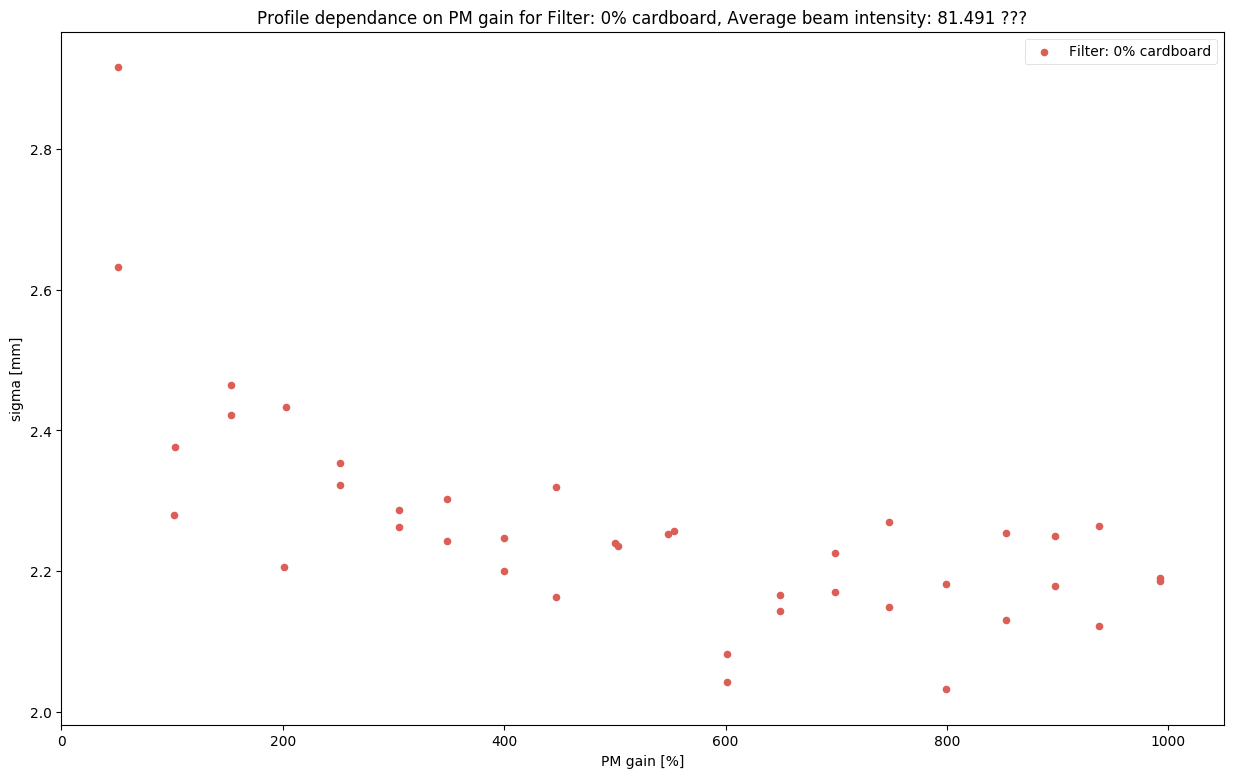
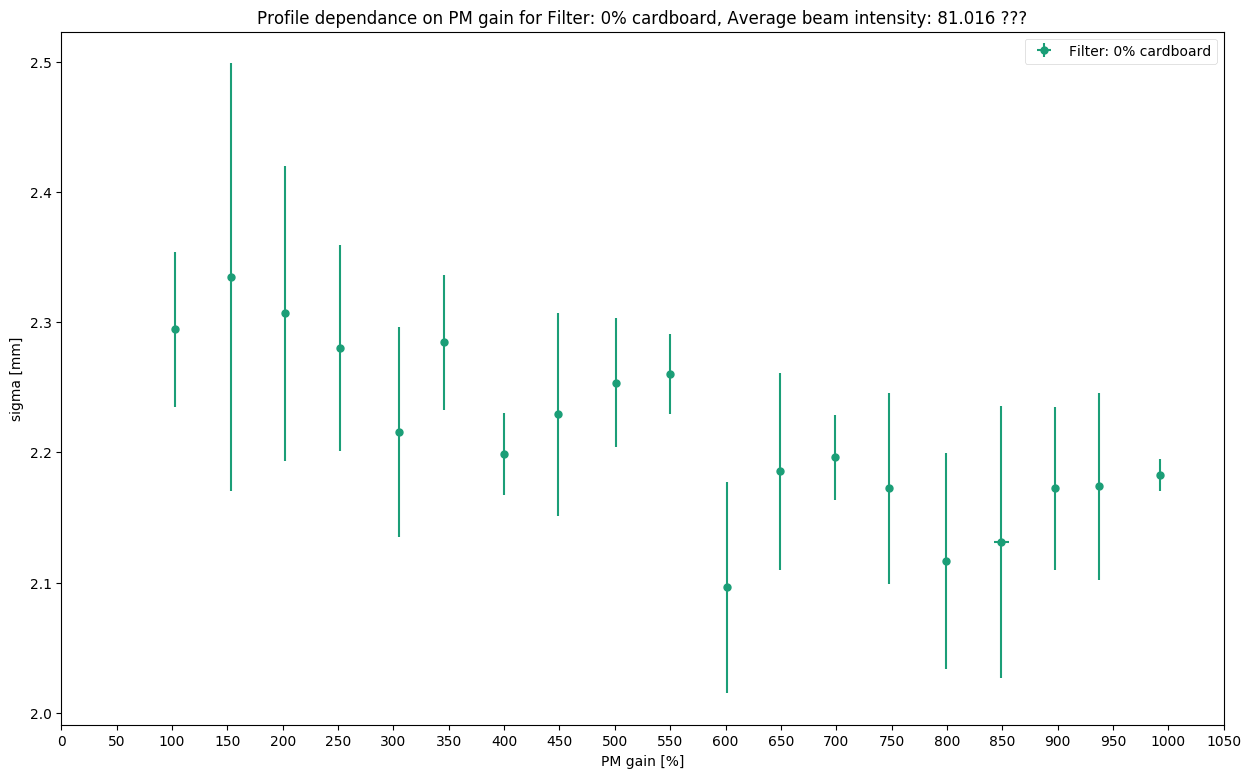
New plots: sigma * amplitude on pm and sigma * amplitude on intensity.

diff --git a/analyse_wirescanner.py b/analyse_wirescanner.py
@@ -85,12 +85,15 @@ def plot_profile(infile):
 
 
 # color_list = ["black", "blue", "orange", "green", "yellow", "magenta", "purple", "red", "maroon"]
-color_list = sns.color_palette("hls", 9)
+# color_list = sns.color_palette("hls", 8)
+color_list = plt.get_cmap('Dark2')
 filter_list = ["0% cardboard", "20%", "5%", "2%", "0.5%", "0.2%", "100% no filter", "0% metal" ]
 
 run = [1,2,3]
 filter = [0,1,2,3,4,5,6,7]
 # filter = [0,2,3,4,5,7]
+# filter = [2,3,4,5]
+# filter = [1,6]
 ring = "R2"
 speed = "10"
 measured_data_dict = collections.defaultdict(list)
@@ -105,7 +108,8 @@ for r in run:
 	for filt in filter:
 
 		sigmas = []
-		sigmas_errors = []
+		sigmas_areas = []
+		# sigmas_errors = []
 		pms = []
 		bcts = []
 
@@ -133,7 +137,7 @@ for r in run:
 										
 										pm = f[f.find('pm') + 2: f.find('pm') + 6].strip("_")
 										# print(pm)
-										if int(pm) > 40:
+										if int(pm) > 60:
 											plot_profile(f)
 											# print('>> sigma =', abs(popt[2]))
 											# print(gauss(np.asarray(data_x), *popt))
@@ -173,18 +177,20 @@ for r in run:
 											pms.append(float(pm))
 											if abs(popt[2]) < 4:
 												sigmas.append(abs(popt[2]))
-												sigmas_errors.append(abs(perr[2]))
+												sigmas_areas.append(abs(popt[2]*popt[0]))
+												# sigmas_errors.append(abs(perr[2]))
 											else:
 												print("One of the sigma values is too large!")
 												sigmas.append(float('NaN'))
-												sigmas_errors.append(float('NaN'))
+												# sigmas_errors.append(float('NaN'))
 
 										counter += 1
 										
 
 		measured_data_dict[(str(r),str(filt),"pms")] = pms 
 		measured_data_dict[(str(r),str(filt),"sigmas")] = sigmas
-		measured_data_dict[(str(r),str(filt),"sigmas_errors")] = sigmas_errors
+		measured_data_dict[(str(r),str(filt),"sigmas_areas")] = sigmas_areas
+		# measured_data_dict[(str(r),str(filt),"sigmas_errors")] = sigmas_errors
 		measured_data_dict[(str(r),str(filt),"bcts")] = bcts
 		measured_data_dict[(str(r),str(filt),"avg_bcts")] = sum(bcts)/float(len(bcts))
 		mean_bct_sum = mean_bct_sum + measured_data_dict[(str(r),str(filt),"avg_bcts")]
@@ -199,58 +205,68 @@ mean_bct = mean_bct_sum_sum/mean_bct_length_length
 for filt in filter:
 	for r in run:	
 		measured_data_dict[(str(r),str(filt),"sigmas_normalised")] = mean_bct * np.asarray(measured_data_dict[(str(r),str(filt),"sigmas")])/np.asarray(measured_data_dict[(str(r),str(filt),"bcts")])
-		measured_data_dict[(str(r),str(filt),"sigmas_errors_normalised")] = mean_bct * np.asarray(measured_data_dict[(str(r),str(filt),"sigmas_errors")])/np.asarray(measured_data_dict[(str(r),str(filt),"bcts")])
+		# measured_data_dict[(str(r),str(filt),"sigmas_errors_normalised")] = mean_bct * np.asarray(measured_data_dict[(str(r),str(filt),"sigmas_errors")])/np.asarray(measured_data_dict[(str(r),str(filt),"bcts")])
 
 		# print(measured_data_dict[(str(r),str(filt),"sigmas_normalised")])
+# Old ploting------------------------------------------------------------------------------------------
+	# 	plt.figure(2)
+	# 	# # For not normalised data---------------------------------
+	# 	# plt.errorbar(measured_data_dict[(str(r),str(filt),"pms")], measured_data_dict[(str(r),str(filt),"sigmas")], yerr = measured_data_dict[(str(r),str(filt),"sigmas_errors")], color=color_list[filt], label='Wirescanner data filter: ' + filter_list[filt])
+	# 	# plt.fill_between(np.asarray(measured_data_dict[(str(r),str(filt),"pms")]), np.asarray(measured_data_dict[(str(r),str(filt),"sigmas")])-np.asarray(measured_data_dict[(str(r),str(filt),"sigmas_errors")]), np.asarray(measured_data_dict[(str(r),str(filt),"sigmas")])+np.asarray(measured_data_dict[(str(r),str(filt),"sigmas_errors")]),facecolor=color_list[filt],alpha=0.5)
+	# 	# # # For data normalised with intensity----------------------
+	# 	# plt.errorbar(measured_data_dict[(str(r),str(filt),"pms")], measured_data_dict[(str(r),str(filt),"sigmas_normalised")], yerr = measured_data_dict[(str(r),str(filt),"sigmas_errors_normalised")], color=color_list[filt], label='Wirescanner data filter: ' + filter_list[filt])
+	# 	# plt.fill_between(np.asarray(measured_data_dict[(str(r),str(filt),"pms")]), np.asarray(measured_data_dict[(str(r),str(filt),"sigmas_normalised")])-np.asarray(measured_data_dict[(str(r),str(filt),"sigmas_errors_normalised")]), np.asarray(measured_data_dict[(str(r),str(filt),"sigmas_normalised")])+np.asarray(measured_data_dict[(str(r),str(filt),"sigmas_errors_normalised")]),facecolor=color_list[filt],alpha=0.5)
 
-		plt.figure(2)
-		# # For not normalised data---------------------------------
-		# plt.errorbar(measured_data_dict[(str(r),str(filt),"pms")], measured_data_dict[(str(r),str(filt),"sigmas")], yerr = measured_data_dict[(str(r),str(filt),"sigmas_errors")], color=color_list[filt], label='Wirescanner data filter: ' + filter_list[filt])
-		# plt.fill_between(np.asarray(measured_data_dict[(str(r),str(filt),"pms")]), np.asarray(measured_data_dict[(str(r),str(filt),"sigmas")])-np.asarray(measured_data_dict[(str(r),str(filt),"sigmas_errors")]), np.asarray(measured_data_dict[(str(r),str(filt),"sigmas")])+np.asarray(measured_data_dict[(str(r),str(filt),"sigmas_errors")]),facecolor=color_list[filt],alpha=0.5)
-		# # # For data normalised with intensity----------------------
-		# plt.errorbar(measured_data_dict[(str(r),str(filt),"pms")], measured_data_dict[(str(r),str(filt),"sigmas_normalised")], yerr = measured_data_dict[(str(r),str(filt),"sigmas_errors_normalised")], color=color_list[filt], label='Wirescanner data filter: ' + filter_list[filt])
-		# plt.fill_between(np.asarray(measured_data_dict[(str(r),str(filt),"pms")]), np.asarray(measured_data_dict[(str(r),str(filt),"sigmas_normalised")])-np.asarray(measured_data_dict[(str(r),str(filt),"sigmas_errors_normalised")]), np.asarray(measured_data_dict[(str(r),str(filt),"sigmas_normalised")])+np.asarray(measured_data_dict[(str(r),str(filt),"sigmas_errors_normalised")]),facecolor=color_list[filt],alpha=0.5)
 
-
-		# For scatter plot
-		if r == 1:
-			plt.scatter(measured_data_dict[(str(r),str(filt),"pms")], measured_data_dict[(str(r),str(filt),"sigmas_normalised")], s=20, color=color_list[filt], label='Filter: ' + filter_list[filt])
-		else:
-			plt.scatter(measured_data_dict[(str(r),str(filt),"pms")], measured_data_dict[(str(r),str(filt),"sigmas_normalised")], s=20, color=color_list[filt], label= None)
+	# 	# For scatter plot
+	# 	if r == 1:
+	# 		plt.scatter(measured_data_dict[(str(r),str(filt),"pms")], measured_data_dict[(str(r),str(filt),"sigmas_normalised")], s=20, color=color_list[filt], label='Filter: ' + filter_list[filt])
+	# 	else:
+	# 		plt.scatter(measured_data_dict[(str(r),str(filt),"pms")], measured_data_dict[(str(r),str(filt),"sigmas_normalised")], s=20, color=color_list[filt], label= None)
 		
-	fig = plt.gcf()
-	fig.set_size_inches(15, 9)
-	plt.title("Profile dependance on PM gain for Filter: " + filter_list[filt] + ", Average beam intensity: " + str(round(mean_bct,3)) + " ???")
-	plt.xlabel('PM gain [%]')
-	plt.xticks(np.arange(0, 1051, step=50))
-	plt.ylabel(r'sigma [mm]')
-	plt.xlim([0,1050])
-	plt.legend(loc='best', prop={'size': 10}).get_frame().set_linewidth(0.5)
+	# fig = plt.gcf()
+	# fig.set_size_inches(15, 9)
+	# plt.title("Profile dependance on PM gain for Filter: " + filter_list[filt] + ", Average beam intensity: " + str(round(mean_bct,3)) + " ???")
+	# plt.xlabel('PM gain [%]')
+	# plt.xticks(np.arange(0, 1051, step=50))
+	# plt.ylabel(r'sigma [mm]')
+	# plt.xlim([0,1050])
+	# plt.legend(loc='best', prop={'size': 10}).get_frame().set_linewidth(0.5)
 
-	# plt.show()
-plt.savefig("all_sigma_on_pm_filter" + str(filt) + "_speed" + speed + ".png", bbox_inches='tight')
+	# # plt.show()
+	# plt.savefig("sigma_on_pm_filter" + str(filt) + "_speed" + speed + ".png", bbox_inches='tight')
 	# plt.clf()
 
 
 for filt in filter:
 	sigmas_final = []
 	sigmas_final_errors = []
+
 	pms_final = []
 	pms_final_errors = []
-	for i in range (0,20):
+
+	bcts_final = []
+	bcts_final_errors = []
+	for i in range (0,19):
 
 		all_sigmas = []
 		all_pms = []
+		all_bcts = []
 		for r in run:
-			all_sigmas.append(measured_data_dict[(str(r),str(filt),"sigmas_normalised")][i])
+			# all_sigmas.append(measured_data_dict[(str(r),str(filt),"sigmas_normalised")][i])
+			all_sigmas.append(measured_data_dict[(str(r),str(filt),"sigmas_areas")][i])			
 			all_pms.append(measured_data_dict[(str(r),str(filt),"pms")][i])
+			all_bcts.append(measured_data_dict[(str(r),str(filt),"bcts")][i])
 		
-		# measured_data_dict[(str(i), str(filt),"all_sigmas")] = all_sigmas 
+
 		sigmas_final.append(np.mean(all_sigmas))
 		sigmas_final_errors.append(np.std(all_sigmas,ddof=1))
 
 		pms_final.append(np.mean(all_pms))
 		pms_final_errors.append(np.std(all_pms,ddof=1))
+
+		bcts_final.append(np.mean(all_bcts))
+		bcts_final_errors.append(np.std(all_bcts,ddof=1))
 		
 	measured_data_dict[(str(filt),"sigmas_final")] = sigmas_final
 	measured_data_dict[(str(filt),"sigmas_final_errors")] = sigmas_final_errors
@@ -258,21 +274,50 @@ for filt in filter:
 	measured_data_dict[(str(filt),"pms_final")] = pms_final
 	measured_data_dict[(str(filt),"pms_final_errors")] = pms_final_errors
 
+	measured_data_dict[(str(filt),"bcts_final")] = bcts_final
+	measured_data_dict[(str(filt),"bcts_final_errors")] = bcts_final_errors
 
 
 	plt.figure(3)
 
-	plt.errorbar(measured_data_dict[(str(filt),"pms_final")], measured_data_dict[(str(filt),"sigmas_final")], xerr = measured_data_dict[(str(filt),"pms_final_errors")], yerr = measured_data_dict[(str(filt),"sigmas_final_errors")], color=color_list[filt], fmt='o', markersize=5, label='Filter: ' + filter_list[filt])
+	plt.errorbar(measured_data_dict[(str(filt),"pms_final")], measured_data_dict[(str(filt),"sigmas_final")], xerr = measured_data_dict[(str(filt),"pms_final_errors")], yerr = measured_data_dict[(str(filt),"sigmas_final_errors")], color=color_list(filt), fmt='o', markersize=5, label='Filter: ' + filter_list[filt])
+	# plt.errorbar(measured_data_dict[(str(filt),"bcts_final")], measured_data_dict[(str(filt),"sigmas_final")], xerr = measured_data_dict[(str(filt),"bcts_final_errors")], yerr = measured_data_dict[(str(filt),"sigmas_final_errors")], color=color_list(filt), fmt='o', markersize=5, label='Filter: ' + filter_list[filt])
 	# plt.fill_between(np.asarray(measured_data_dict[(str(filt),"pms_final")]), np.asarray(measured_data_dict[(str(filt),"sigmas_final")])-np.asarray(measured_data_dict[(str(filt),"sigmas_final_errors")]), np.asarray(measured_data_dict[(str(filt),"sigmas_final")])+np.asarray(measured_data_dict[(str(filt),"sigmas_final_errors")]),facecolor=color_list[filt],alpha=0.5)
 
 	fig = plt.gcf()
 	fig.set_size_inches(15, 9)
-	plt.title("Profile dependance on PM gain for Filter: " + filter_list[filt] + ", Average beam intensity: " + str(round(mean_bct,3)) + " ???")
+	plt.title("Profile * Amplitude dependance on PM gain for Filter: " + filter_list[filt] + ", Average beam intensity: " + str(round(mean_bct,3)) + " ???")
 	plt.xlabel('PM gain [%]')
+	# plt.xlabel('Intensity')
 	plt.xticks(np.arange(0, 1051, step=50))
-	plt.ylabel(r'sigma [mm]')
-	plt.xlim([0,1050])
+	# plt.ylabel(r'sigma [mm]'))
+	plt.ylabel(r'sigma * Amplitude [mm * mA]')
 	plt.legend(loc='best', prop={'size': 10}).get_frame().set_linewidth(0.5)
-plt.savefig("all_new_sigma_on_pm_filter" + str(filt) + "_speed" + speed + ".png", bbox_inches='tight')
+	# plt.savefig("all_sigma_times_area_on_pm_filter" + str(filt) + "_speed" + speed + ".png", bbox_inches='tight')
 	# plt.clf()
+
+	plt.figure(4)
+
+	# plt.errorbar(measured_data_dict[(str(filt),"pms_final")], measured_data_dict[(str(filt),"sigmas_final")], xerr = measured_data_dict[(str(filt),"pms_final_errors")], yerr = measured_data_dict[(str(filt),"sigmas_final_errors")], color=color_list(filt), fmt='o', markersize=5, label='Filter: ' + filter_list[filt])
+	plt.errorbar(measured_data_dict[(str(filt),"bcts_final")], measured_data_dict[(str(filt),"sigmas_final")], xerr = measured_data_dict[(str(filt),"bcts_final_errors")], yerr = measured_data_dict[(str(filt),"sigmas_final_errors")], color=color_list(filt), fmt='o', markersize=5, label='Filter: ' + filter_list[filt])
+	# plt.fill_between(np.asarray(measured_data_dict[(str(filt),"pms_final")]), np.asarray(measured_data_dict[(str(filt),"sigmas_final")])-np.asarray(measured_data_dict[(str(filt),"sigmas_final_errors")]), np.asarray(measured_data_dict[(str(filt),"sigmas_final")])+np.asarray(measured_data_dict[(str(filt),"sigmas_final_errors")]),facecolor=color_list[filt],alpha=0.5)
+
+	fig = plt.gcf()
+	fig.set_size_inches(15, 9)
+	plt.title("Profile * Amplitude dependance on intensity for Filter: " + filter_list[filt] + ", Average beam intensity: " + str(round(mean_bct,3)) + " ???")
+	# plt.xlabel('PM gain [%]')
+	plt.xlabel('Intensity')
+	# plt.xticks(np.arange(0, 1051, step=50))
+	# plt.ylabel(r'sigma [mm]'))
+	plt.ylabel(r'sigma * Amplitude [mm * mA]')
+	plt.legend(loc='best', prop={'size': 10}).get_frame().set_linewidth(0.5)
+	# plt.savefig("all_sigma_times_area_on_intensity_filter" + str(filt) + "_speed" + speed + ".png", bbox_inches='tight')
+	# plt.clf()
+
+
+plt.figure(3)
+plt.savefig("all_sigma_times_area_on_pm_filter" + str(filt) + "_speed" + speed + ".png", bbox_inches='tight')
+
+plt.figure(4)
+plt.savefig("all_sigma_times_area_on_intensity_filter" + str(filt) + "_speed" + speed + ".png", bbox_inches='tight')
 

diff --git a/readme.md b/readme.md
@@ -1,3 +1,5 @@
-hello
+<h1>Wire scanner measurement optimization<\h1>
 
-hi
+Systematical measurements for all filters (0-7), both speeds (10,15) in full pm gain range.
+
+Script fot taking measurements, script for ploting and analysing profiles, script fot plotting beam intensity.
